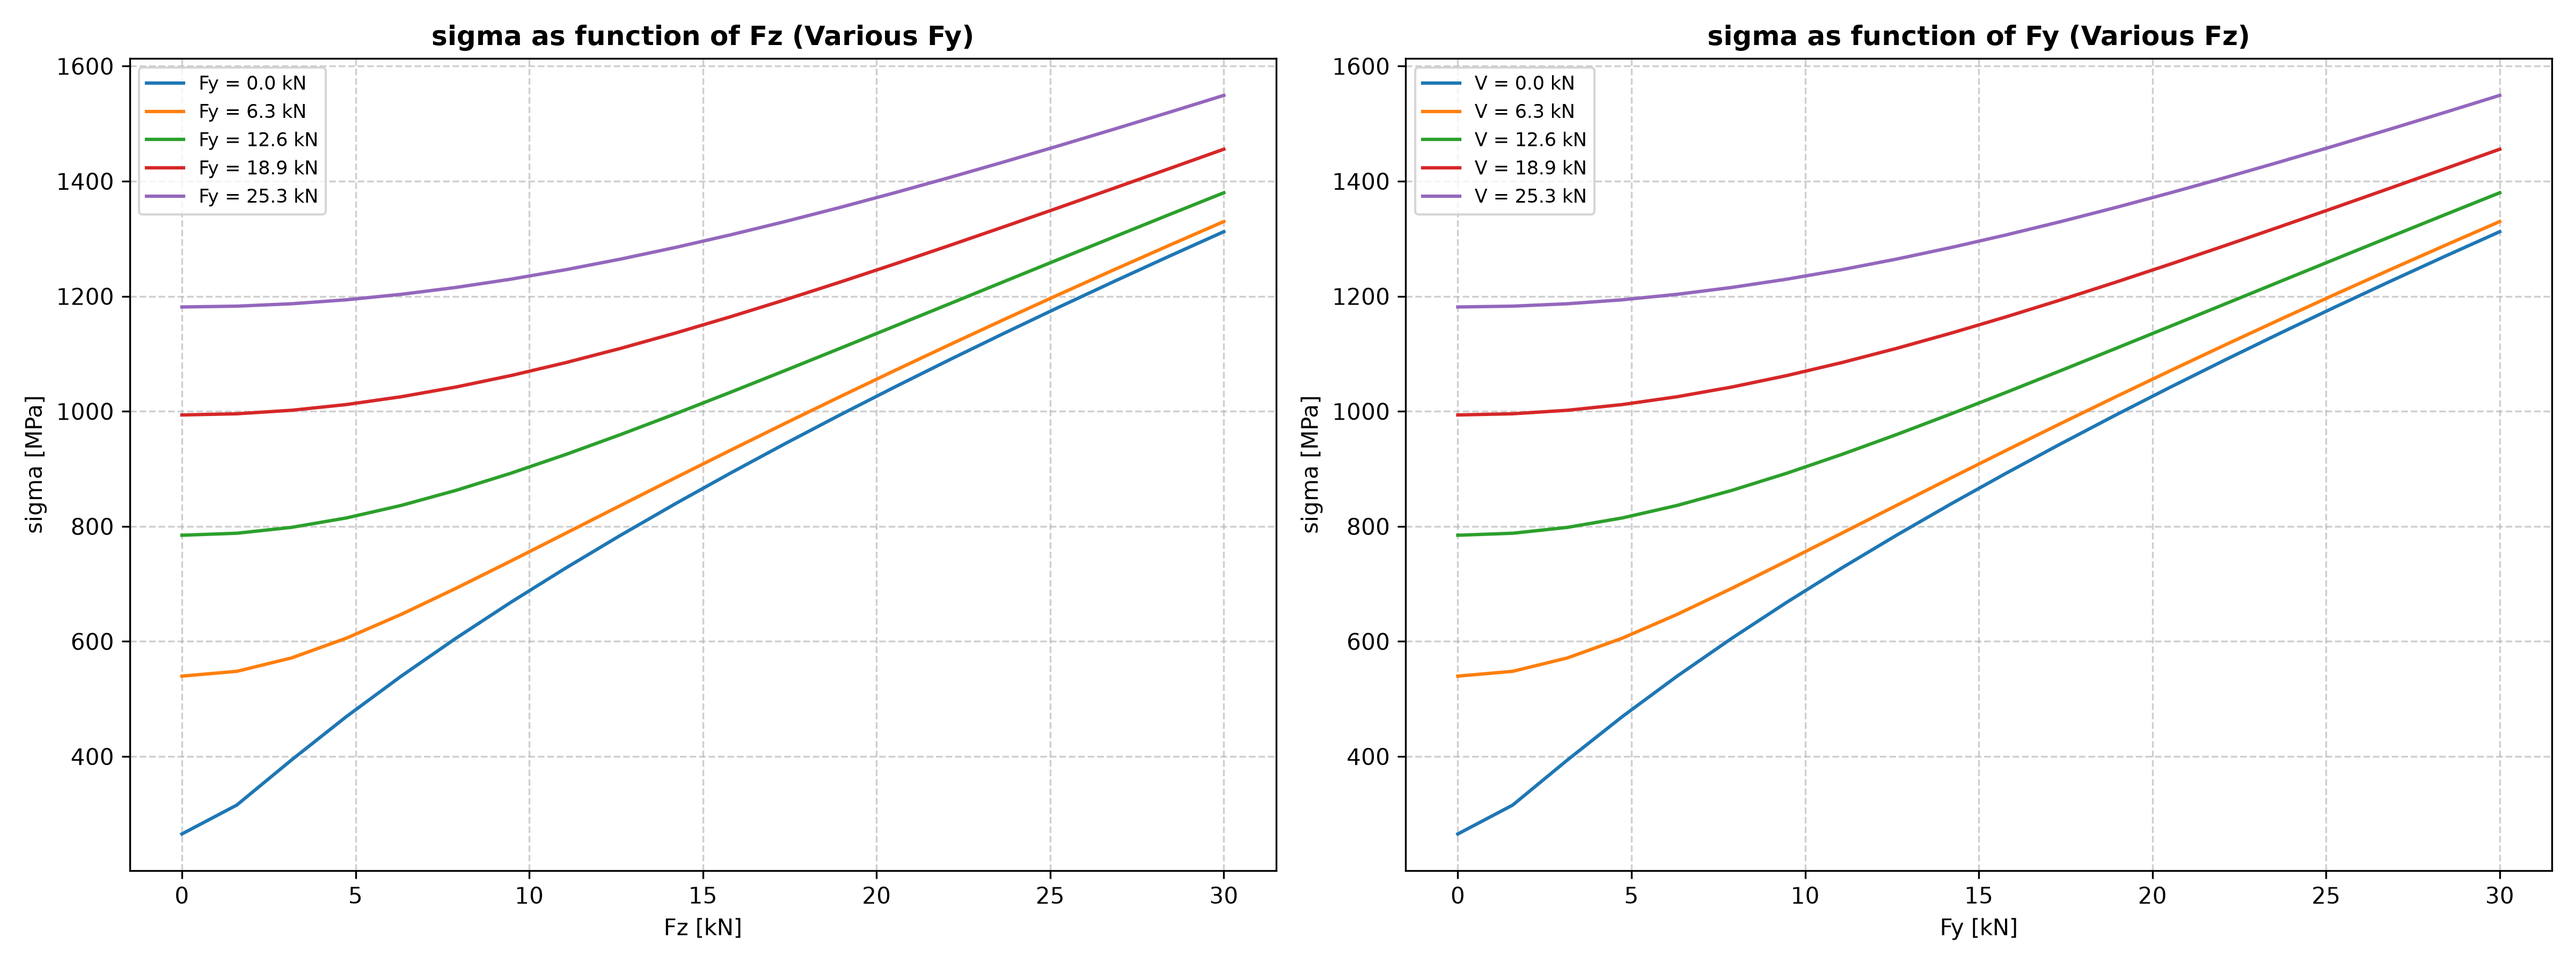
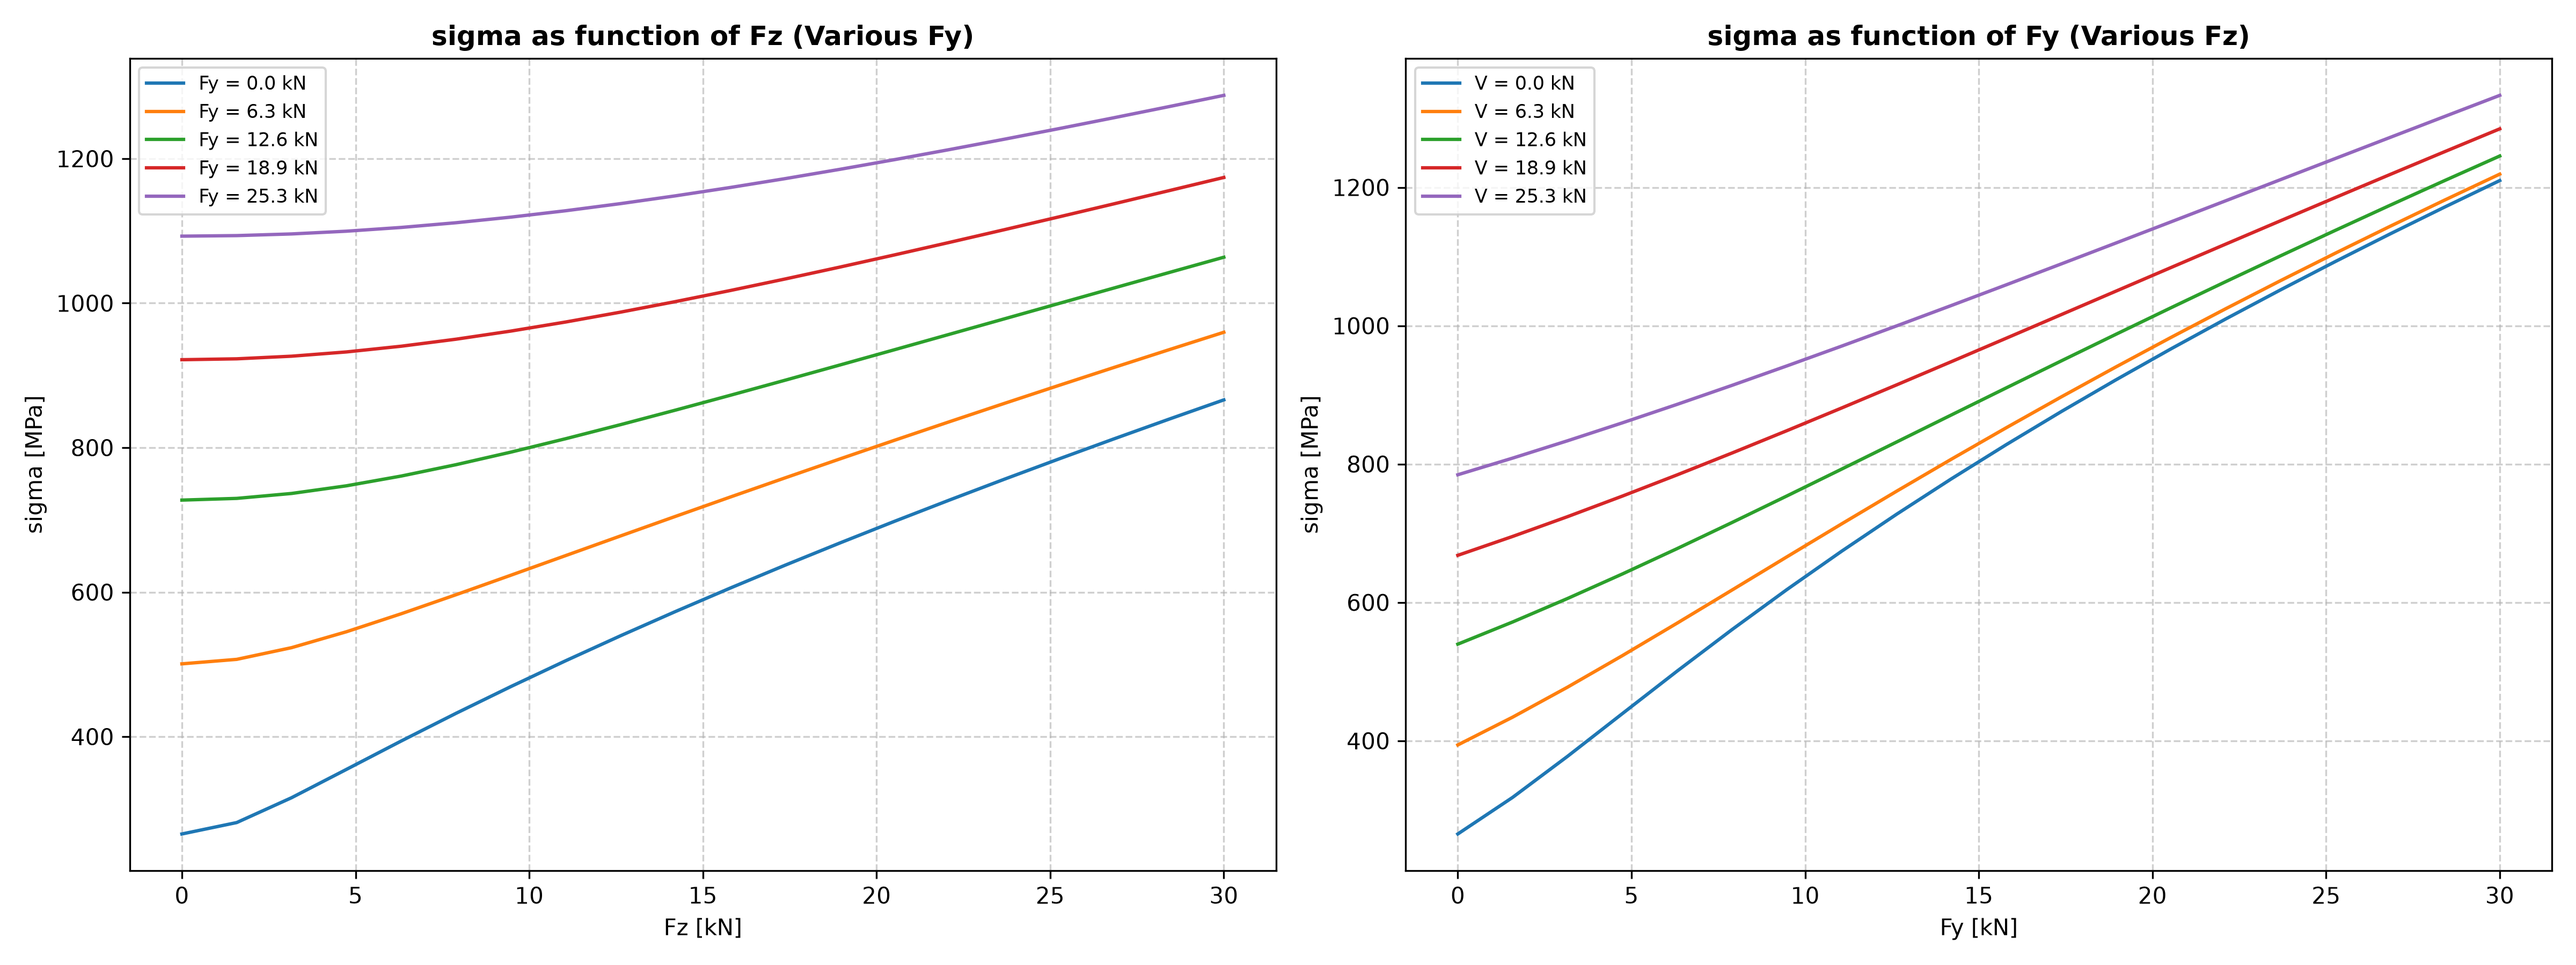
found and validated a symmetric cable net system with desired underlinear behavior.

diff --git a/syst_8_tripod_cables/syst_8_2d.py b/syst_8_tripod_cables/syst_8_2d.py
@@ -2,115 +2,119 @@ from syst_8_model_function import t_S_cablenet
 import numpy as np
 import matplotlib.pyplot as plt
 
-x = t_S_cablenet(F_Y=-00.0 * 1e3, F_Z=-00.0 * 1e3)
-print(x)
+# # Validation Check
+# A = 12**2 * np.pi / 4 # mm2
+# x = t_S_cablenet(F_Y=-30.0 * 1e3, F_Z=-30.0 * 1e3) # input in kN
+# print(f"Stress: {x} MPa") # kN
+# print(f"Force: {x * A / 1000} kN") # kN
 
 
 
-# sigma_list = []
 
-# # Range für Punktlasten
-# Fy_range = np.linspace(0, 30 * 1e3, 20) # Load in kN
-# Fz_range = np.linspace(0, 30 * 1e3, 20) # Load in kN
+sigma_list = []
 
-# # Fz = 30 * 1e3
-# # Fy = 30 * 1e3
+# Range für Punktlasten
+Fy_range = np.linspace(0, 30 * 1e3, 20) # Load in kN
+Fz_range = np.linspace(0, 30 * 1e3, 20) # Load in kN
 
-# Fz = 0
-# Fy = 0
+# Fz = 30 * 1e3
+# Fy = 30 * 1e3
 
-# for Fy in Fy_range:
-# #for Fz in Fz_range:
-#     sigma = t_S_cablenet(F_Y=-Fy, F_Z=-Fz)
+Fz = 0
+Fy = 0
+
+#for Fy in Fy_range:
+for Fz in Fz_range:
+    sigma = t_S_cablenet(F_Y=-Fy, F_Z=-Fz)
     
-#     sigma_list.append(sigma)
+    sigma_list.append(sigma)
 
 
     
-# def plot_Fy_range():
-#     # Speicherpfad 
-# #     ORDNERNAME = "frame_plots"
-# #     os.makedirs(ORDNERNAME, exist_ok=True)
-# #     DATEINAME = f"H_{H:.1f}.png" 
-# #     VOLLSTAENDIGER_PFAD = os.path.join(ORDNERNAME, DATEINAME)
+def plot_Fy_range():
+    # Speicherpfad 
+#     ORDNERNAME = "frame_plots"
+#     os.makedirs(ORDNERNAME, exist_ok=True)
+#     DATEINAME = f"H_{H:.1f}.png" 
+#     VOLLSTAENDIGER_PFAD = os.path.join(ORDNERNAME, DATEINAME)
 
-#     # Plot der ersten Linie (Th. I. O.) mit Datenpunkten
-#     plt.plot(Fy_range/1000, sigma_list, 
-#             label='N', 
-#             marker='.',          # Fügt Punkte hinzu
-#             markersize=4,       # Größe der Punkte
-#             color='blue',        # Farbe frei wählbar (z.B. 'red' oder 'orange')
-#             linestyle='-')      # Durchgehende Linie
-
-
-#     # Achsenbeschriftungen
-#     plt.xlabel('Fy in [kN]', fontsize=12)
-#     #plt.xlabel('v in [kN/m]', fontsize=12)
-#     plt.ylabel('sigma in [MPa]', fontsize=12)
-
-#     # Überschrift mit dem Wert von H hinzufügen
-#     #plt.title(f"H = {H} kN", fontsize=14, )
-#     plt.title(f"Fz = {Fz/1000} kN", fontsize=14, )
-
-#     # Grid anzeigen
-#     plt.grid(True, linestyle=':', alpha=0.6) # 'linestyle' macht es punktiert, 'alpha' macht es blasser
-
-#     # Legende (oben links, damit sie nicht über den Linien liegt)
-#     plt.legend(loc='upper left', fontsize=10)
-
-#     # Sicherstellen, dass die Achsen bei 0 beginnen
-#     #plt.xlim(left=0)
-#     #plt.ylim(bottom=-10)
-
-#     plt.tight_layout() # Verhindert, dass Titel/Achsen abgeschnitten werden
-
-#     # SPEICHERN 
-#     plt.savefig("./Fy_range", dpi=300) # dpi=300 sorgt für hohe Auflösung
-
-#     # Plot anzeigen
-#     plt.show()
-
-# def plot_Fz_range():
-#     # Speicherpfad 
-# #     ORDNERNAME = "frame_plots"
-# #     os.makedirs(ORDNERNAME, exist_ok=True)
-# #     DATEINAME = f"V_{V:.1f}.png" 
-# #     VOLLSTAENDIGER_PFAD = os.path.join(ORDNERNAME, DATEINAME)
-
-#     # Plot der ersten Linie (Th. I. O.) mit Datenpunkten
-#     plt.plot(Fz_range / 1000, sigma_list, 
-#             label='N', 
-#             marker='.',          # Fügt Punkte hinzu
-#             markersize=4,       # Größe der Punkte
-#             color='blue',        # Farbe frei wählbar (z.B. 'red' oder 'orange')
-#             linestyle='-')      # Durchgehende Linie
-
-#     # Achsenbeschriftungen
-#     #plt.xlabel('H in [kN]', fontsize=12)
-#     plt.xlabel('Fz in [kN]', fontsize=12)
-#     plt.ylabel('sigma in [MPa]', fontsize=12)
-
-#     # Überschrift mit dem Wert von H hinzufügen
-#     plt.title(f"Fy = {Fy/1000} kN", fontsize=14, )
-#     #plt.title(f"v = {v} kN/m", fontsize=14, )
-#     # Grid anzeigen
-#     plt.grid(True, linestyle=':', alpha=0.6) # 'linestyle' macht es punktiert, 'alpha' macht es blasser
-
-#     # Legende (oben links, damit sie nicht über den Linien liegt)
-#     plt.legend(loc='upper left', fontsize=10)
-
-#     # Sicherstellen, dass die Achsen bei 0 beginnen
-#     #plt.xlim(left=0)
-#     #plt.ylim(bottom=0)
-
-#     plt.tight_layout() # Verhindert, dass Titel/Achsen abgeschnitten werden
-
-#     # SPEICHERN 
-#     plt.savefig("./Fz_range", dpi=300) # dpi=300 sorgt für hohe Auflösung
-
-#     # Plot anzeigen
-#     plt.show()
+    # Plot der ersten Linie (Th. I. O.) mit Datenpunkten
+    plt.plot(Fy_range/1000, sigma_list, 
+            label='N', 
+            marker='.',          # Fügt Punkte hinzu
+            markersize=4,       # Größe der Punkte
+            color='blue',        # Farbe frei wählbar (z.B. 'red' oder 'orange')
+            linestyle='-')      # Durchgehende Linie
 
 
-# #plot_Fz_range()
-# plot_Fy_range()
+    # Achsenbeschriftungen
+    plt.xlabel('Fy in [kN]', fontsize=12)
+    #plt.xlabel('v in [kN/m]', fontsize=12)
+    plt.ylabel('sigma in [MPa]', fontsize=12)
+
+    # Überschrift mit dem Wert von H hinzufügen
+    #plt.title(f"H = {H} kN", fontsize=14, )
+    plt.title(f"Fz = {Fz/1000} kN", fontsize=14, )
+
+    # Grid anzeigen
+    plt.grid(True, linestyle=':', alpha=0.6) # 'linestyle' macht es punktiert, 'alpha' macht es blasser
+
+    # Legende (oben links, damit sie nicht über den Linien liegt)
+    plt.legend(loc='upper left', fontsize=10)
+
+    # Sicherstellen, dass die Achsen bei 0 beginnen
+    #plt.xlim(left=0)
+    #plt.ylim(bottom=-10)
+
+    plt.tight_layout() # Verhindert, dass Titel/Achsen abgeschnitten werden
+
+    # SPEICHERN 
+    plt.savefig("./Fy_range", dpi=300) # dpi=300 sorgt für hohe Auflösung
+
+    # Plot anzeigen
+    plt.show()
+
+def plot_Fz_range():
+    # Speicherpfad 
+#     ORDNERNAME = "frame_plots"
+#     os.makedirs(ORDNERNAME, exist_ok=True)
+#     DATEINAME = f"V_{V:.1f}.png" 
+#     VOLLSTAENDIGER_PFAD = os.path.join(ORDNERNAME, DATEINAME)
+
+    # Plot der ersten Linie (Th. I. O.) mit Datenpunkten
+    plt.plot(Fz_range / 1000, sigma_list, 
+            label='N', 
+            marker='.',          # Fügt Punkte hinzu
+            markersize=4,       # Größe der Punkte
+            color='blue',        # Farbe frei wählbar (z.B. 'red' oder 'orange')
+            linestyle='-')      # Durchgehende Linie
+
+    # Achsenbeschriftungen
+    #plt.xlabel('H in [kN]', fontsize=12)
+    plt.xlabel('Fz in [kN]', fontsize=12)
+    plt.ylabel('sigma in [MPa]', fontsize=12)
+
+    # Überschrift mit dem Wert von H hinzufügen
+    plt.title(f"Fy = {Fy/1000} kN", fontsize=14, )
+    #plt.title(f"v = {v} kN/m", fontsize=14, )
+    # Grid anzeigen
+    plt.grid(True, linestyle=':', alpha=0.6) # 'linestyle' macht es punktiert, 'alpha' macht es blasser
+
+    # Legende (oben links, damit sie nicht über den Linien liegt)
+    plt.legend(loc='upper left', fontsize=10)
+
+    # Sicherstellen, dass die Achsen bei 0 beginnen
+    #plt.xlim(left=0)
+    #plt.ylim(bottom=0)
+
+    plt.tight_layout() # Verhindert, dass Titel/Achsen abgeschnitten werden
+
+    # SPEICHERN 
+    plt.savefig("./Fz_range", dpi=300) # dpi=300 sorgt für hohe Auflösung
+
+    # Plot anzeigen
+    plt.show()
+
+
+plot_Fz_range()
+#plot_Fy_range()

diff --git a/syst_8_tripod_cables/syst_8_model_function.py b/syst_8_tripod_cables/syst_8_model_function.py
@@ -38,18 +38,20 @@ KratosMultiphysics.Logger.GetDefaultOutput().SetSeverity(KratosMultiphysics.Logg
 # only things that vary per t_S_tripod(...) call)
 # ============================================================================
 # ANCHOR_COORDS = [
-#     (0.0, -3.0,  0.0),
-#     (0.0,  3.0,  0.0),
-#     (0.0,  0.0, -6.0),
+#     (0.0,  0.0,  0.0),
+#     (6.0,  0.0,  0.0),
+#     (6.0,  0.0, -6.0),
 # ]
-# COMMON_COORD = (0.0, 0.0, -0.2)
+# COMMON_COORD = (3.0, 0.0, -0.0)
 
+# Test: 4 cable system:
 ANCHOR_COORDS = [
     (0.0,  0.0,  0.0),
     (6.0,  0.0,  0.0),
-    #(3.0,  0.0, -10.0),
+    (6.0,  0.0, -0.2),
+    (0.0,  0.0, -0.2),
 ]
-COMMON_COORD = (3.0, 0.0, -0.0)
+COMMON_COORD = (3.0, 0.0, -0.1)
 
 # Section/material - reusing the same steel cable properties already used for
 # the hypar's boundary cables (12 mm diameter round steel bar).
@@ -164,7 +166,7 @@ def t_S_cablenet(F_Y: float = 0.0, F_Z: float = 0.0) -> float:
     # and contributes it to the system during assembly (properties content
     # doesn't matter here, this condition type ignores material data).
     mp.CreateNewCondition("PointLoadCondition3D1N", 100, [common_id], props)
-
+    
     analysis.Initialize()
 
     for step in range(N_STEPS):
@@ -189,12 +191,9 @@ def t_S_cablenet(F_Y: float = 0.0, F_Z: float = 0.0) -> float:
     elem2 = mp.GetElement(2)
     stresses = elem2.CalculateOnIntegrationPoints(KratosMultiphysics.PK2_STRESS_VECTOR, mp.ProcessInfo)
     stress_pa = stresses[0][0]
+    
 
     analysis.Finalize()
 
     return stress_pa /1e6 # output in MPa, not Pa
 
-
-if __name__ == "__main__":
-    stress = t_S_cablenet(F_Y=10e3, F_Z=-10000.0)
-    print(f"\nCable 2 stress: {stress/1e6:.3f} MPa")
